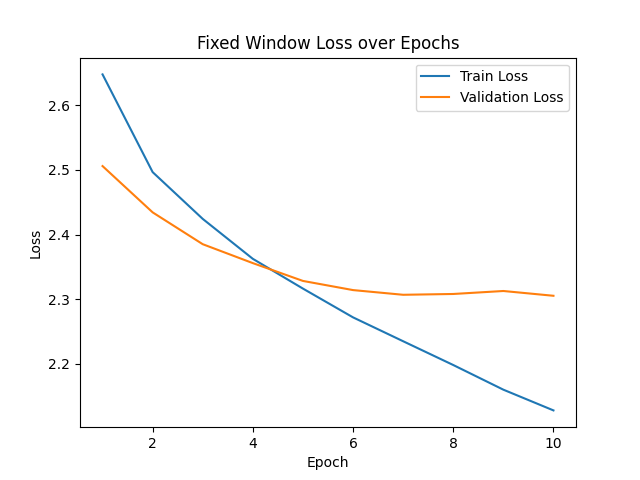
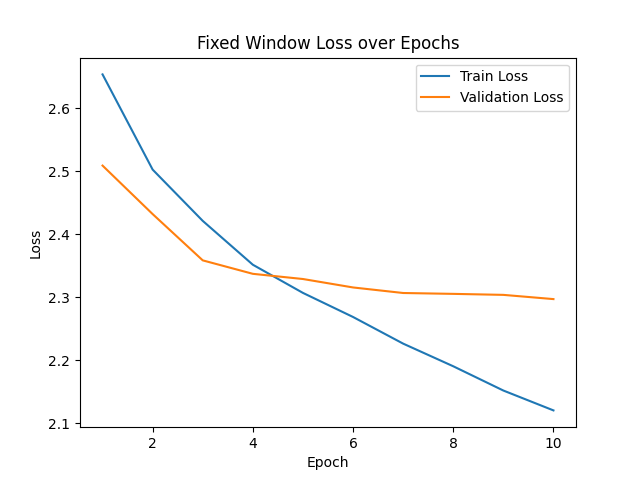
added link to dataset

diff --git a/Readme.md b/Readme.md
@@ -7,6 +7,8 @@
 pip3 install -r requirements.txt
 ```
 
+Link to the dataset https://www.kaggle.com/datasets/debarshichanda/goemotions
+
 ## Run Project
 For this project we have 3 models to run with some tweakable hyperparameters.
 
